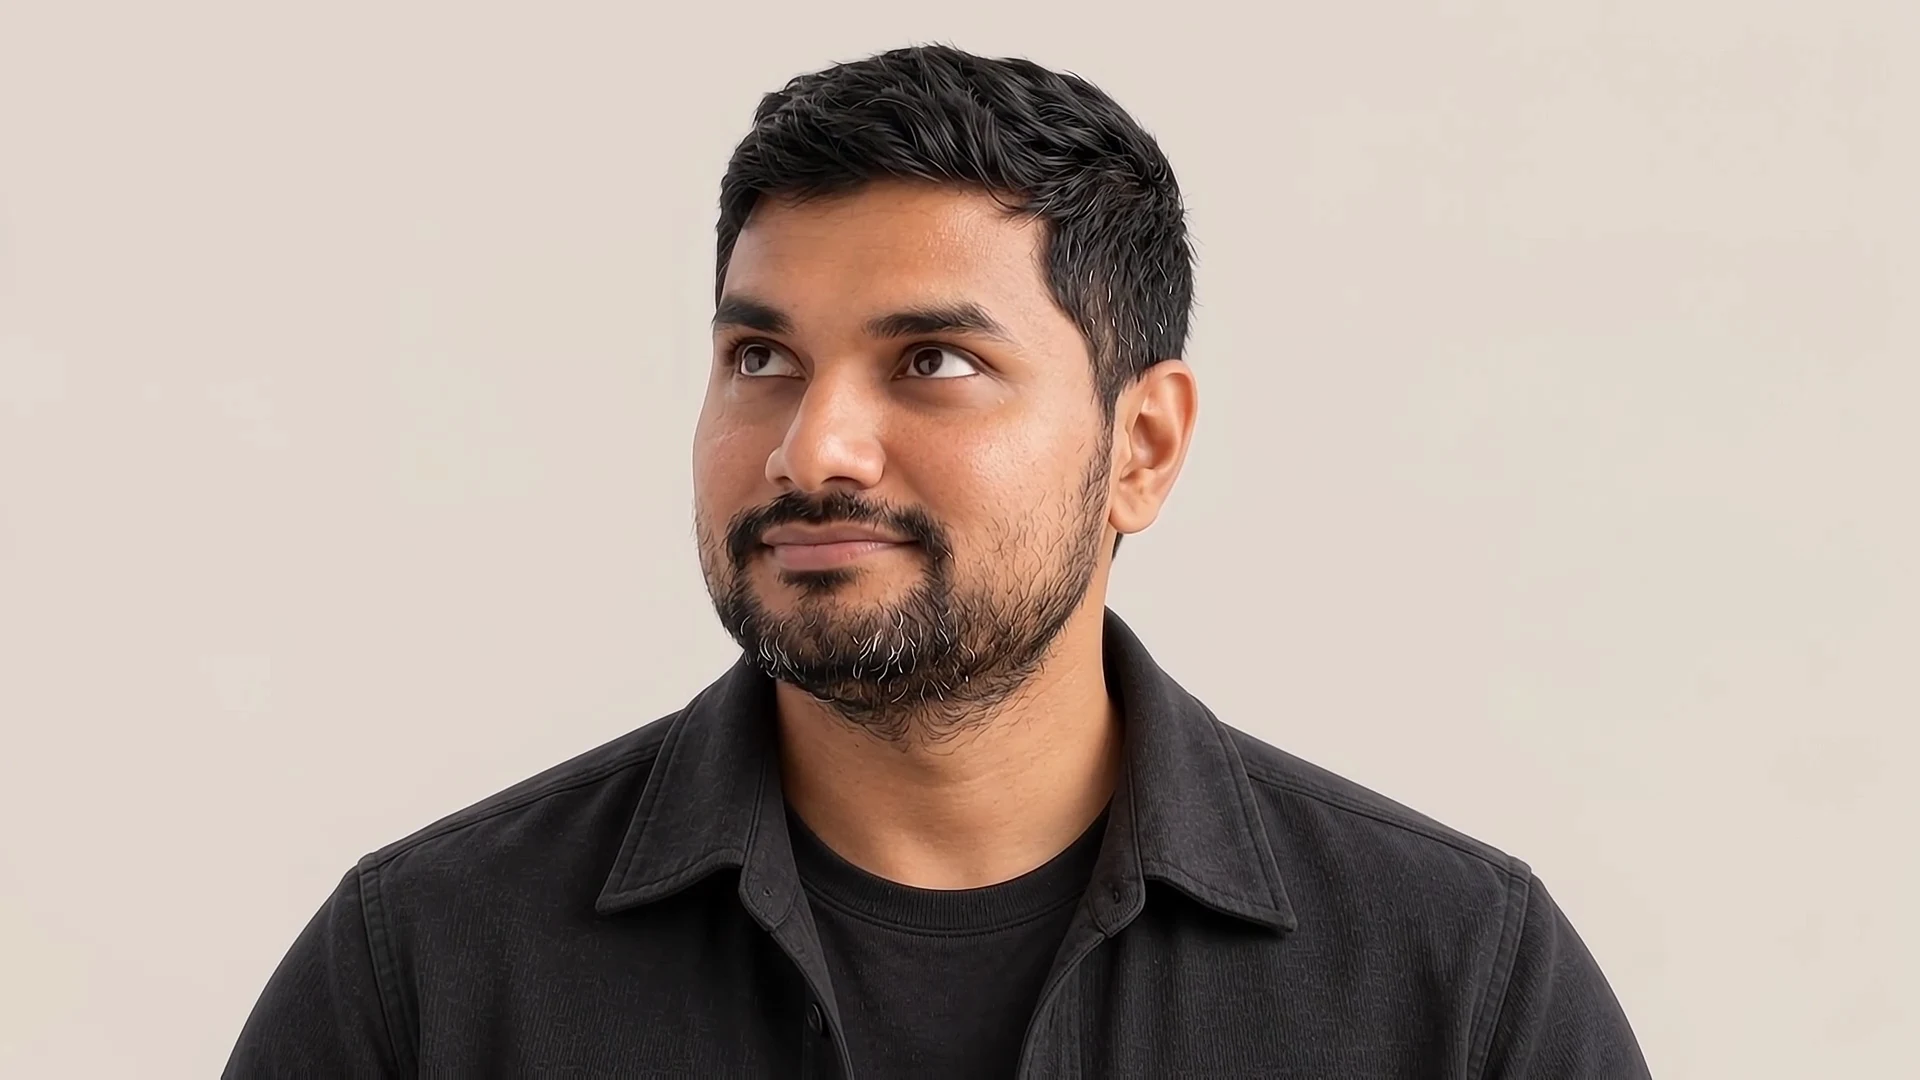
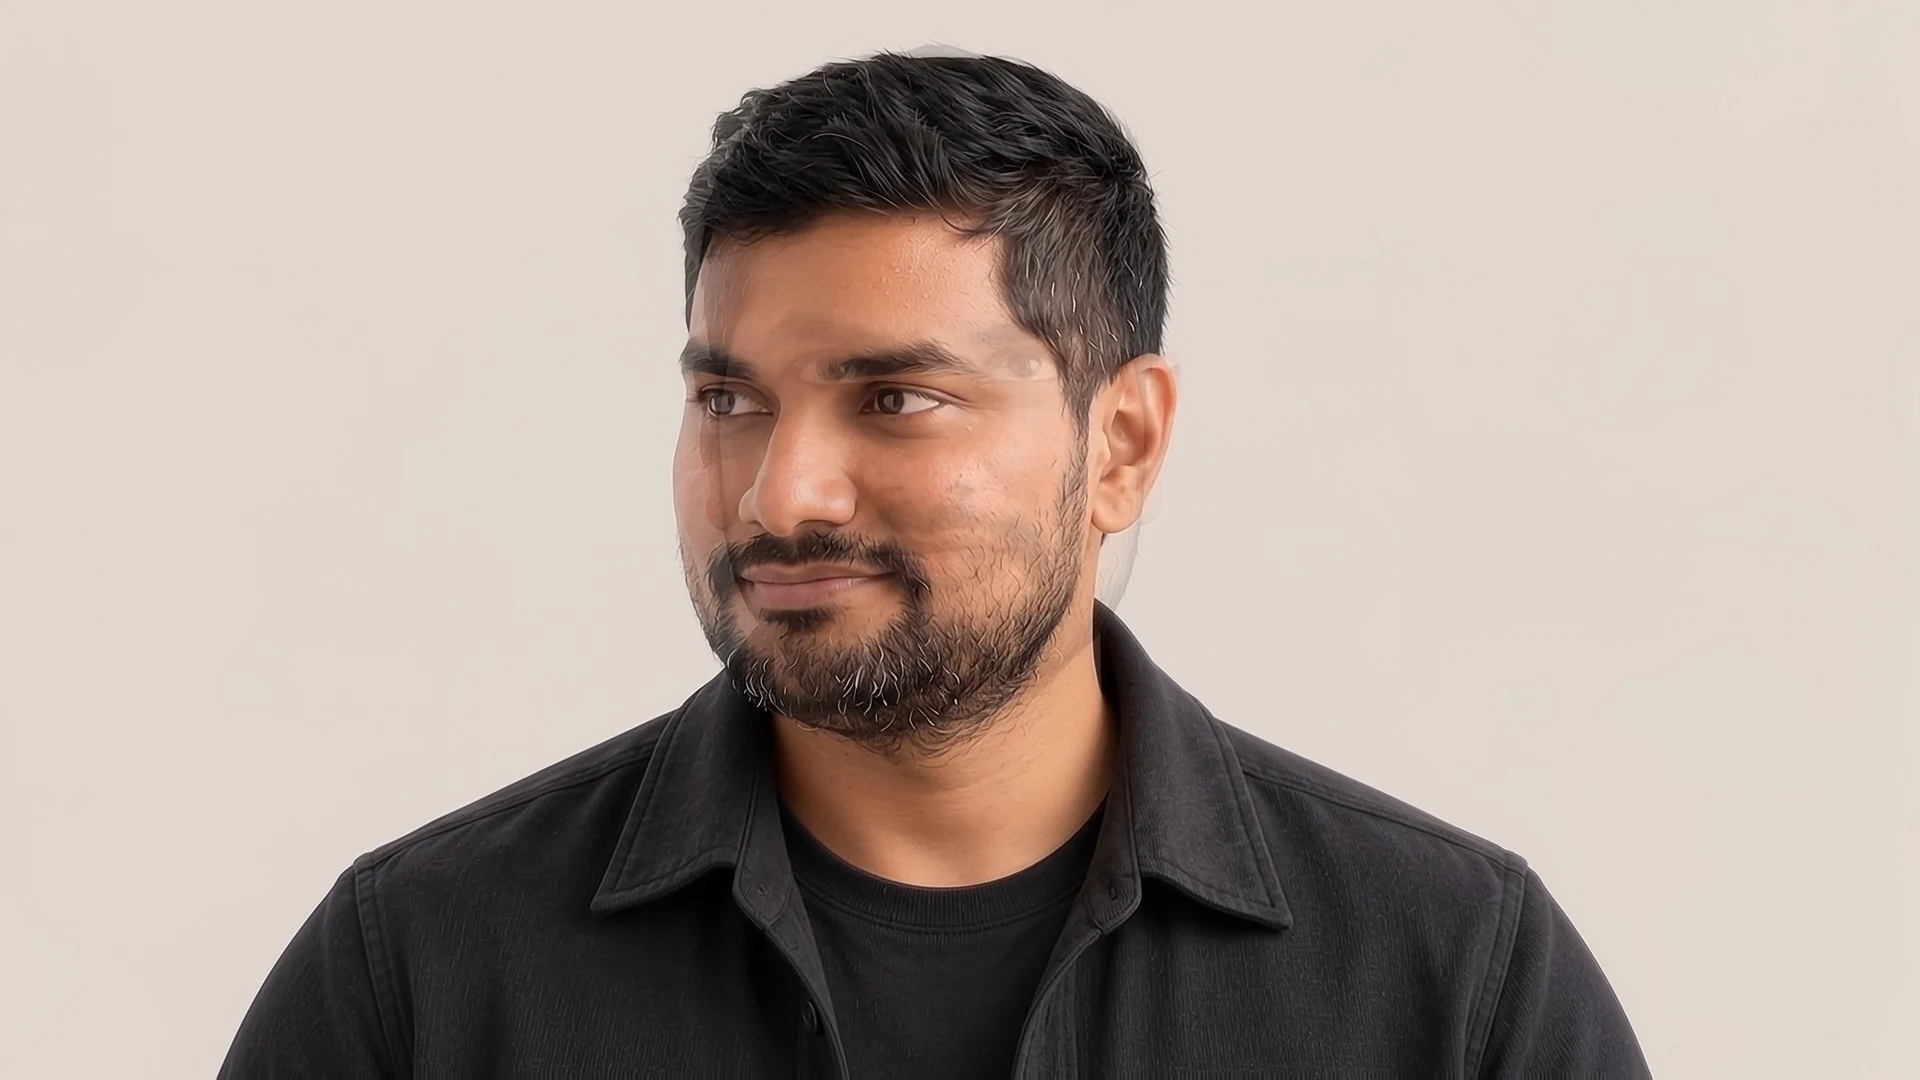
fix: preserve directional tracking through loop

diff --git a/src/components/Landing/Landing.js b/src/components/Landing/Landing.js
@@ -109,8 +109,8 @@ function Landing() {
           aria-hidden={!showCanvas}
         />
       </div>
-      {trackingEnabled && <div className='cursor-hero__cursor' aria-hidden='true' ref={cursorRef} />}
-      <p className='cursor-hero__hint' aria-hidden='true'>Move your cursor</p>
+      {showCanvas && <div className='cursor-hero__cursor' aria-hidden='true' ref={cursorRef} />}
+      {showCanvas && <p className='cursor-hero__hint' aria-hidden='true'>Move your cursor</p>}
     </section>
   );
 }

diff --git a/src/components/Landing/Landing.test.js b/src/components/Landing/Landing.test.js
@@ -39,6 +39,7 @@ test('renders the Warm Studio hero identity and actions', () => {
     'aria-hidden',
     'true'
   );
+  expect(screen.queryByText(/move your cursor/i)).not.toBeInTheDocument();
 });
 
 test('renders the compact primary navigation', () => {

diff --git a/scripts/extract_character_frames.py b/scripts/extract_character_frames.py
@@ -19,13 +19,13 @@ def evenly_spaced_indices(
     ]
 
 
-def looped_motion_indices(
+def directional_motion_indices(
     frame_count: int,
     output_count: int = 64,
     start_ratio: float = 0.08,
     end_ratio: float = 0.88,
 ) -> list[int]:
-    """Sample up/right/down/left, then route left -> center -> up to close the loop."""
+    """Sample the source's genuine up/right/down/left motion."""
     if output_count < 8 or output_count % 4:
         raise ValueError("output count must be a multiple of four and at least eight")
     last_index = frame_count - 1
@@ -36,20 +36,9 @@ def looped_motion_indices(
         start_index
         + left_output_index * (end_index - start_index) / (output_count - 1)
     )
-    center_index = round(last_index * 0.97)
-    directional = evenly_spaced_indices(
+    return evenly_spaced_indices(
         frame_count, left_output_index + 1, start_index, left_index
     )
-    closing_count = output_count - len(directional)
-    center_count = closing_count // 2
-    upward_count = closing_count - center_count
-    left_to_center = evenly_spaced_indices(
-        frame_count, center_count + 1, left_index, center_index
-    )[1:]
-    center_to_up = evenly_spaced_indices(
-        frame_count, upward_count + 1, 0, start_index
-    )[1:]
-    return directional + left_to_center + center_to_up
 
 
 def extract(
@@ -71,13 +60,29 @@ def extract(
         raise RuntimeError("video metadata is incomplete")
 
     destination.mkdir(parents=True, exist_ok=True)
-    for output_index, source_index in enumerate(
-        looped_motion_indices(frame_count, output_count, start_ratio, end_ratio)
-    ):
+    directional_indices = directional_motion_indices(
+        frame_count, output_count, start_ratio, end_ratio
+    )
+    directional_frames = []
+    for output_index, source_index in enumerate(directional_indices):
         capture.set(cv2.CAP_PROP_POS_FRAMES, source_index)
         ok, frame = capture.read()
         if not ok:
             raise RuntimeError(f"unable to read source frame {source_index}")
+        output = destination / f"frame-{output_index:02d}.webp"
+        if not cv2.imwrite(str(output), frame, [cv2.IMWRITE_WEBP_QUALITY, 88]):
+            raise RuntimeError(f"unable to write {output}")
+        directional_frames.append(frame)
+
+    # Flow returns to a centered pose after looking left. Blend left directly
+    # back to up so the upper-left cursor quadrant stays directional and loops.
+    closing_count = output_count - len(directional_frames)
+    left_frame = directional_frames[-1]
+    up_frame = directional_frames[0]
+    for closing_index in range(1, closing_count + 1):
+        alpha = closing_index / closing_count
+        frame = cv2.addWeighted(left_frame, 1 - alpha, up_frame, alpha, 0)
+        output_index = len(directional_frames) + closing_index - 1
         output = destination / f"frame-{output_index:02d}.webp"
         if not cv2.imwrite(str(output), frame, [cv2.IMWRITE_WEBP_QUALITY, 88]):
             raise RuntimeError(f"unable to write {output}")

diff --git a/scripts/test_extract_character_frames.py b/scripts/test_extract_character_frames.py
@@ -1,6 +1,6 @@
 import unittest
 
-from scripts.extract_character_frames import evenly_spaced_indices, looped_motion_indices
+from scripts.extract_character_frames import directional_motion_indices, evenly_spaced_indices
 
 
 class EvenlySpacedIndicesTest(unittest.TestCase):
@@ -14,18 +14,17 @@ class EvenlySpacedIndicesTest(unittest.TestCase):
     def test_samples_only_the_directional_motion_interval(self):
         self.assertEqual(evenly_spaced_indices(10, 4, 2, 8), [2, 4, 6, 8])
 
-    def test_looped_motion_returns_to_the_upward_pose(self):
-        indices = looped_motion_indices(101, 64, 0.08, 0.88)
-        self.assertEqual(len(indices), 64)
+    def test_directional_motion_covers_three_quarters_of_the_loop(self):
+        indices = directional_motion_indices(101, 64, 0.08, 0.88)
+        self.assertEqual(len(indices), 49)
         self.assertEqual(indices[0], 8)
         self.assertEqual(indices[16], 28)
         self.assertEqual(indices[32], 49)
         self.assertEqual(indices[48], 69)
-        self.assertEqual(indices[-1], 8)
 
-    def test_looped_motion_requires_quarter_turn_groups(self):
+    def test_directional_motion_requires_quarter_turn_groups(self):
         with self.assertRaisesRegex(ValueError, "multiple of four"):
-            looped_motion_indices(100, 63)
+            directional_motion_indices(100, 63)
 
 
 if __name__ == "__main__":
